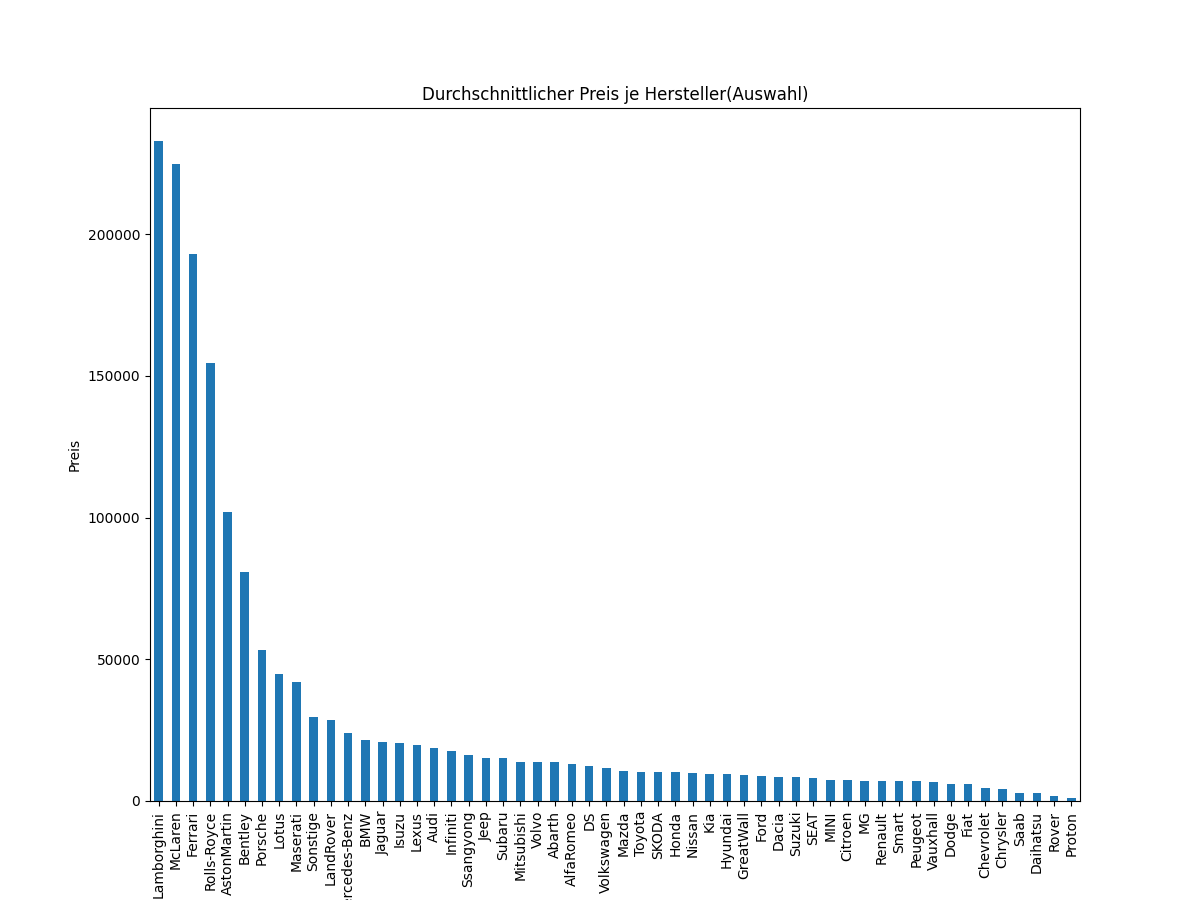
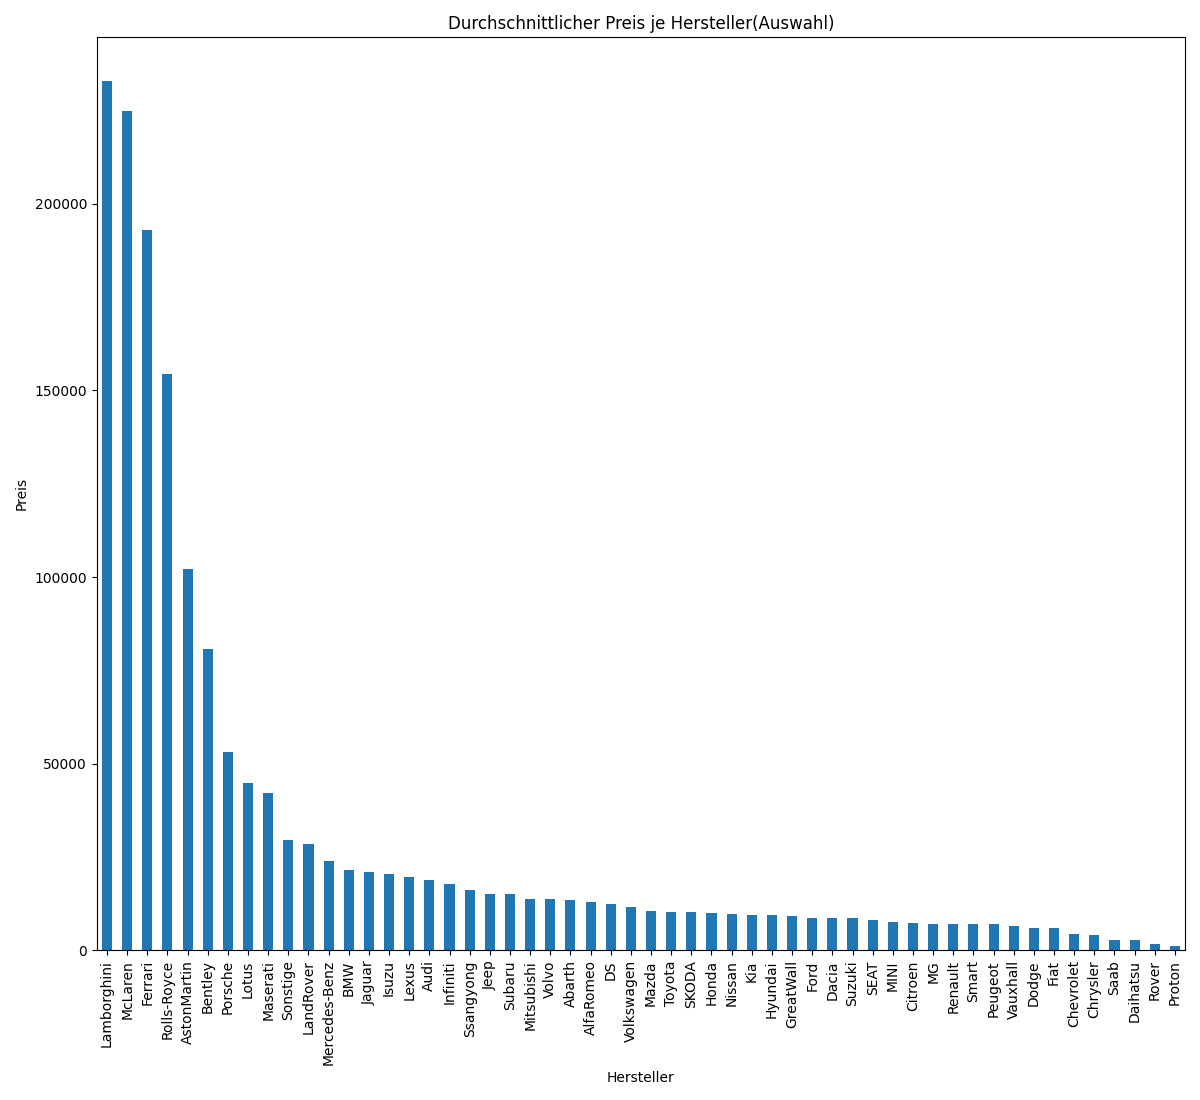
update size of visualizations

diff --git a/visualization.py b/visualization.py
@@ -9,18 +9,21 @@ num_cols = df.select_dtypes(["float64", "int64"]).columns #Numerische Attribute 
 cat_cols = df.select_dtypes(["object"]).columns #Kategorische Attribute des Datensatzes
 
 ## Erste Visualisierung
-plt.figure(figsize=(12, 7))
+plt.figure(figsize=(12, 10))
 (df_begin.isna().sum()/df_begin.shape[0]).sort_values(ascending=False).plot(kind="bar")
 plt.title("Prozentualer Anteil an Null-Werten der verschiedenen Attribute des Datensatzes")
 plt.xlabel("Attribute Datensatz")
 plt.ylabel("Prozent")
+plt.tight_layout()
 #plt.show()
 plt.savefig("Visualizations/missing_values.png")
 plt.clf()
 
 ## Zweite Visualisierung
-sns.heatmap(df_begin.select_dtypes(exclude="object").corr(), annot=True, annot_kws={"fontsize":6}, cbar=False)
+plt.figure(figsize=(12, 11))
+sns.heatmap(df_begin.select_dtypes(exclude="object").corr(), annot=True, annot_kws={"fontsize":10}, cbar=False)
 plt.title("Korrelations-Heatmap")
+plt.tight_layout()
 #plt.show()
 plt.savefig("Visualizations/korr_heatmap.png")
 plt.clf()
@@ -28,41 +31,43 @@ plt.clf()
 ## Dritte Visualisierung
 fig3, ((ax1, ax2, ax3), (ax4, ax5, ax6), (ax7, ax8, ax9)) = plt.subplots(3, 3, figsize=(15,10))
 axes = [ax1,ax2,ax3,ax4,ax5,ax6,ax7,ax8,ax9]
-fig3.suptitle('Verteilung aller numerischen Datenwerte')
 for col, ax in zip(num_cols, axes):
     ax.hist(df[col], bins=100)
     ax.set_title(col)
 #plt.show()
+plt.tight_layout()
 plt.savefig("Visualizations/num_verteilung.png")
 plt.clf()
 
 ##Vierte Visualisierung
-fig4, ((ax1, ax2), (ax3, ax4)) = plt.subplots(2,2, figsize=(15,12))
+fig4, ((ax1, ax2), (ax3, ax4)) = plt.subplots(2,2, figsize=(15,13))
 axes2 = [ax1, ax2, ax3, ax4]
 for cat, ax in zip(cat_cols[2:], axes2):
     sns.countplot(data = df,x= cat, ax=ax)
-    ax.tick_params(axis='x', labelrotation=60)
-#plt.show()
+    ax.tick_params(axis='x', labelrotation=90)
+plt.tight_layout()
 plt.savefig("Visualizations/cat_verteilung.png")
 plt.clf()
 
 ##Fünfte Visualisierung
-plt.figure(figsize=(12, 9))
+plt.figure(figsize=(12, 11))
 df.maker.value_counts().plot(kind="bar")
 plt.title("Anzahl Autos pro Hersteller im Datensatz")
 plt.xlabel("Hersteller", fontsize=6)
-plt.ylabel("Anzahl Autos", fontsize=6)
+plt.ylabel("Anzahl Autos")
 #plt.show()
+plt.tight_layout()
 plt.savefig("Visualizations/anzahl_autos.png")
 plt.clf()
 
 ##Sechste Visualisierung      
 mean_maker = df.groupby(by=["maker"])["price"].mean().sort_values(ascending=False)
-plt.figure(figsize=(12, 9))
+plt.figure(figsize=(12, 11))
 (mean_maker[mean_maker < 1000000]).plot(kind="bar")
 plt.title("Durchschnittlicher Preis je Hersteller(Auswahl)")
 plt.xlabel("Hersteller")
 plt.ylabel("Preis")
+plt.tight_layout()
 #plt.show()
 plt.savefig("Visualizations/mean_price.png")
 plt.clf()
@@ -78,6 +83,7 @@ sns.lineplot(x=plot_test_df["reg_year"], y=plot_test_df["price"], hue=plot_test_
 plt.xlabel("Zulassungsjahr")
 plt.ylabel("Preis")
 plt.title("Durchschnittlicher Preis der größten Hersteller über Zeit")
+plt.tight_layout()
 #plt.show()
 plt.savefig("Visualizations/price_over_time.png")
 plt.clf()
@@ -90,5 +96,6 @@ sns.scatterplot(data=filtered, y="price", x="runned_miles", hue="maker")
 plt.title("Verhältnis Laufleistung und Preis der größten Hersteller")
 plt.xlabel("Laufleistung")
 plt.ylabel("Preis")
+plt.tight_layout()
 #plt.show()
 plt.savefig("Visualizations/miles_price_scatter.png")

diff --git a/main.py b/main.py
@@ -129,28 +129,28 @@ https://figshare.com/articles/figure/DVM-CAR_Dataset/19586296/2""")
     - Farbe (Color)""")
         st.subheader("Prozentualer Anteil fehlender Werte")
         image1 = Image.open('Visualizations/missing_values.png')
-        st.image(image1)
+        st.image(image1, width=900)
         st.subheader("Korrelations-Heatmap")
         image2 = Image.open('Visualizations/Korr_heatmap.png')
-        st.image(image2)
+        st.image(image2, width=900)
         st.subheader("Anzahl Autos pro Hersteller")
         image3 = Image.open('Visualizations/anzahl_autos.png')
-        st.image(image3, width=1200)
+        st.image(image3, width=900)
         st.subheader("Verteilungen aller numerischen Datensatz-Attribute")
         image4 = Image.open('Visualizations/num_verteilung.png')
-        st.image(image4)
+        st.image(image4, width=900)
         st.subheader("Verteilungen aller kategorischen Datensatz-Attribute")
         image5 = Image.open('Visualizations/cat_verteilung.png')
-        st.image(image5)
+        st.image(image5, width=900)
         st.subheader("Durchschnittlicher Preis je Hersteller")
         image6 = Image.open('Visualizations/mean_price.png')
         st.image(image6, width=900)
         st.subheader("Durchschnittlicher Preis über Zeit")
         image7 = Image.open('Visualizations/price_over_time.png')
-        st.image(image7)
+        st.image(image7, width=900)
         st.subheader("Scatterplot von Laufleistung und Preis")
         image8 = Image.open('Visualizations/miles_price_scatter.png')
-        st.image(image8)
+        st.image(image8, width=900)
 
     if (selected == "Vorhersage des Auto Preis"):
         st.title("Vorhersage des Auto Preis")
